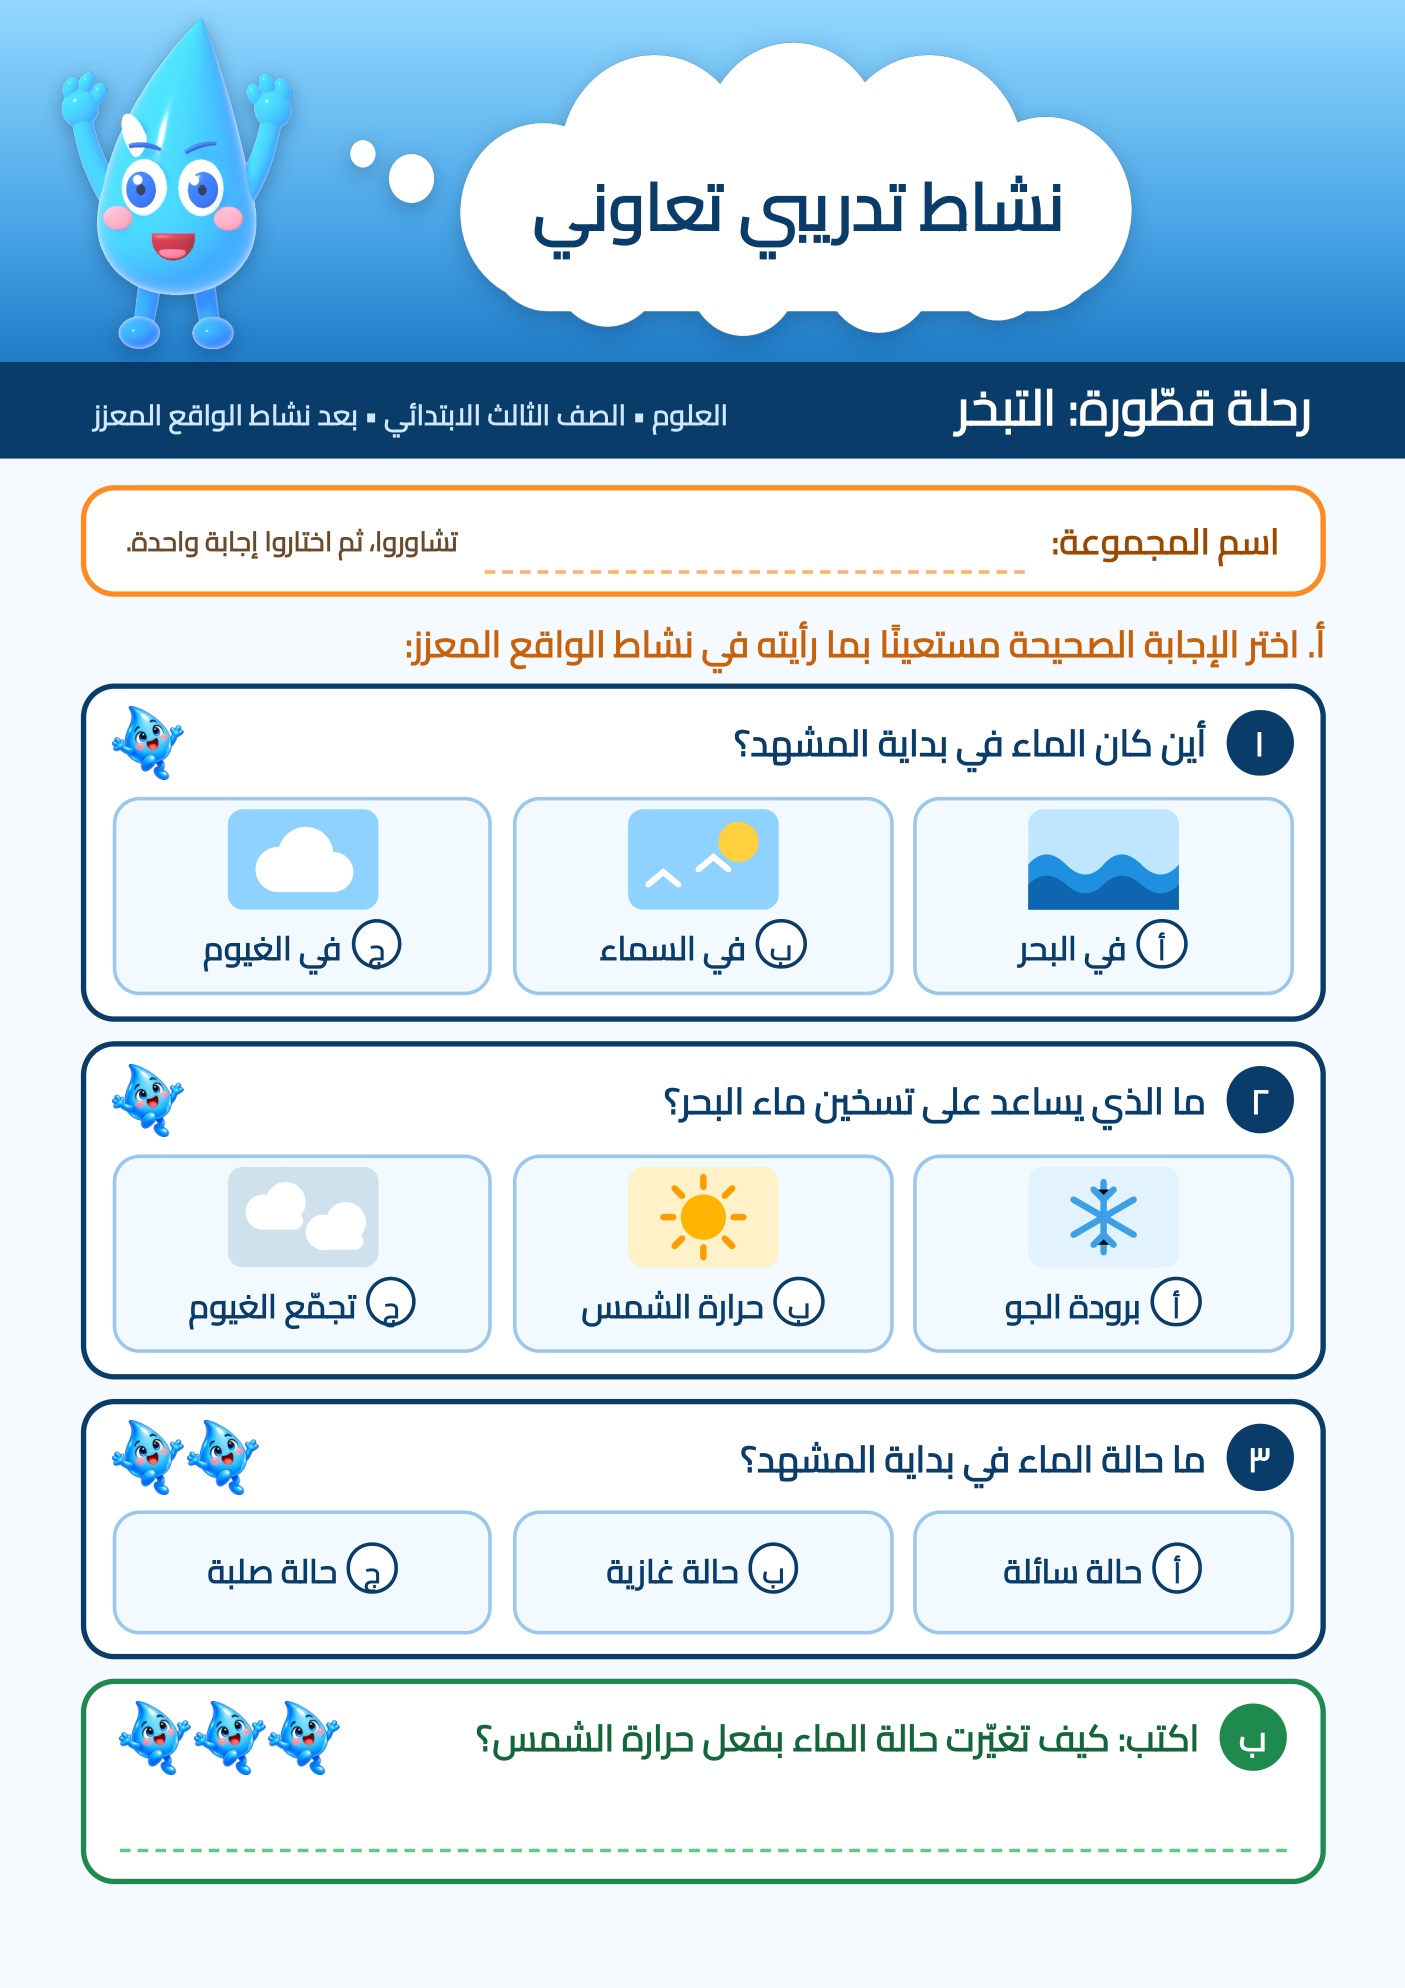
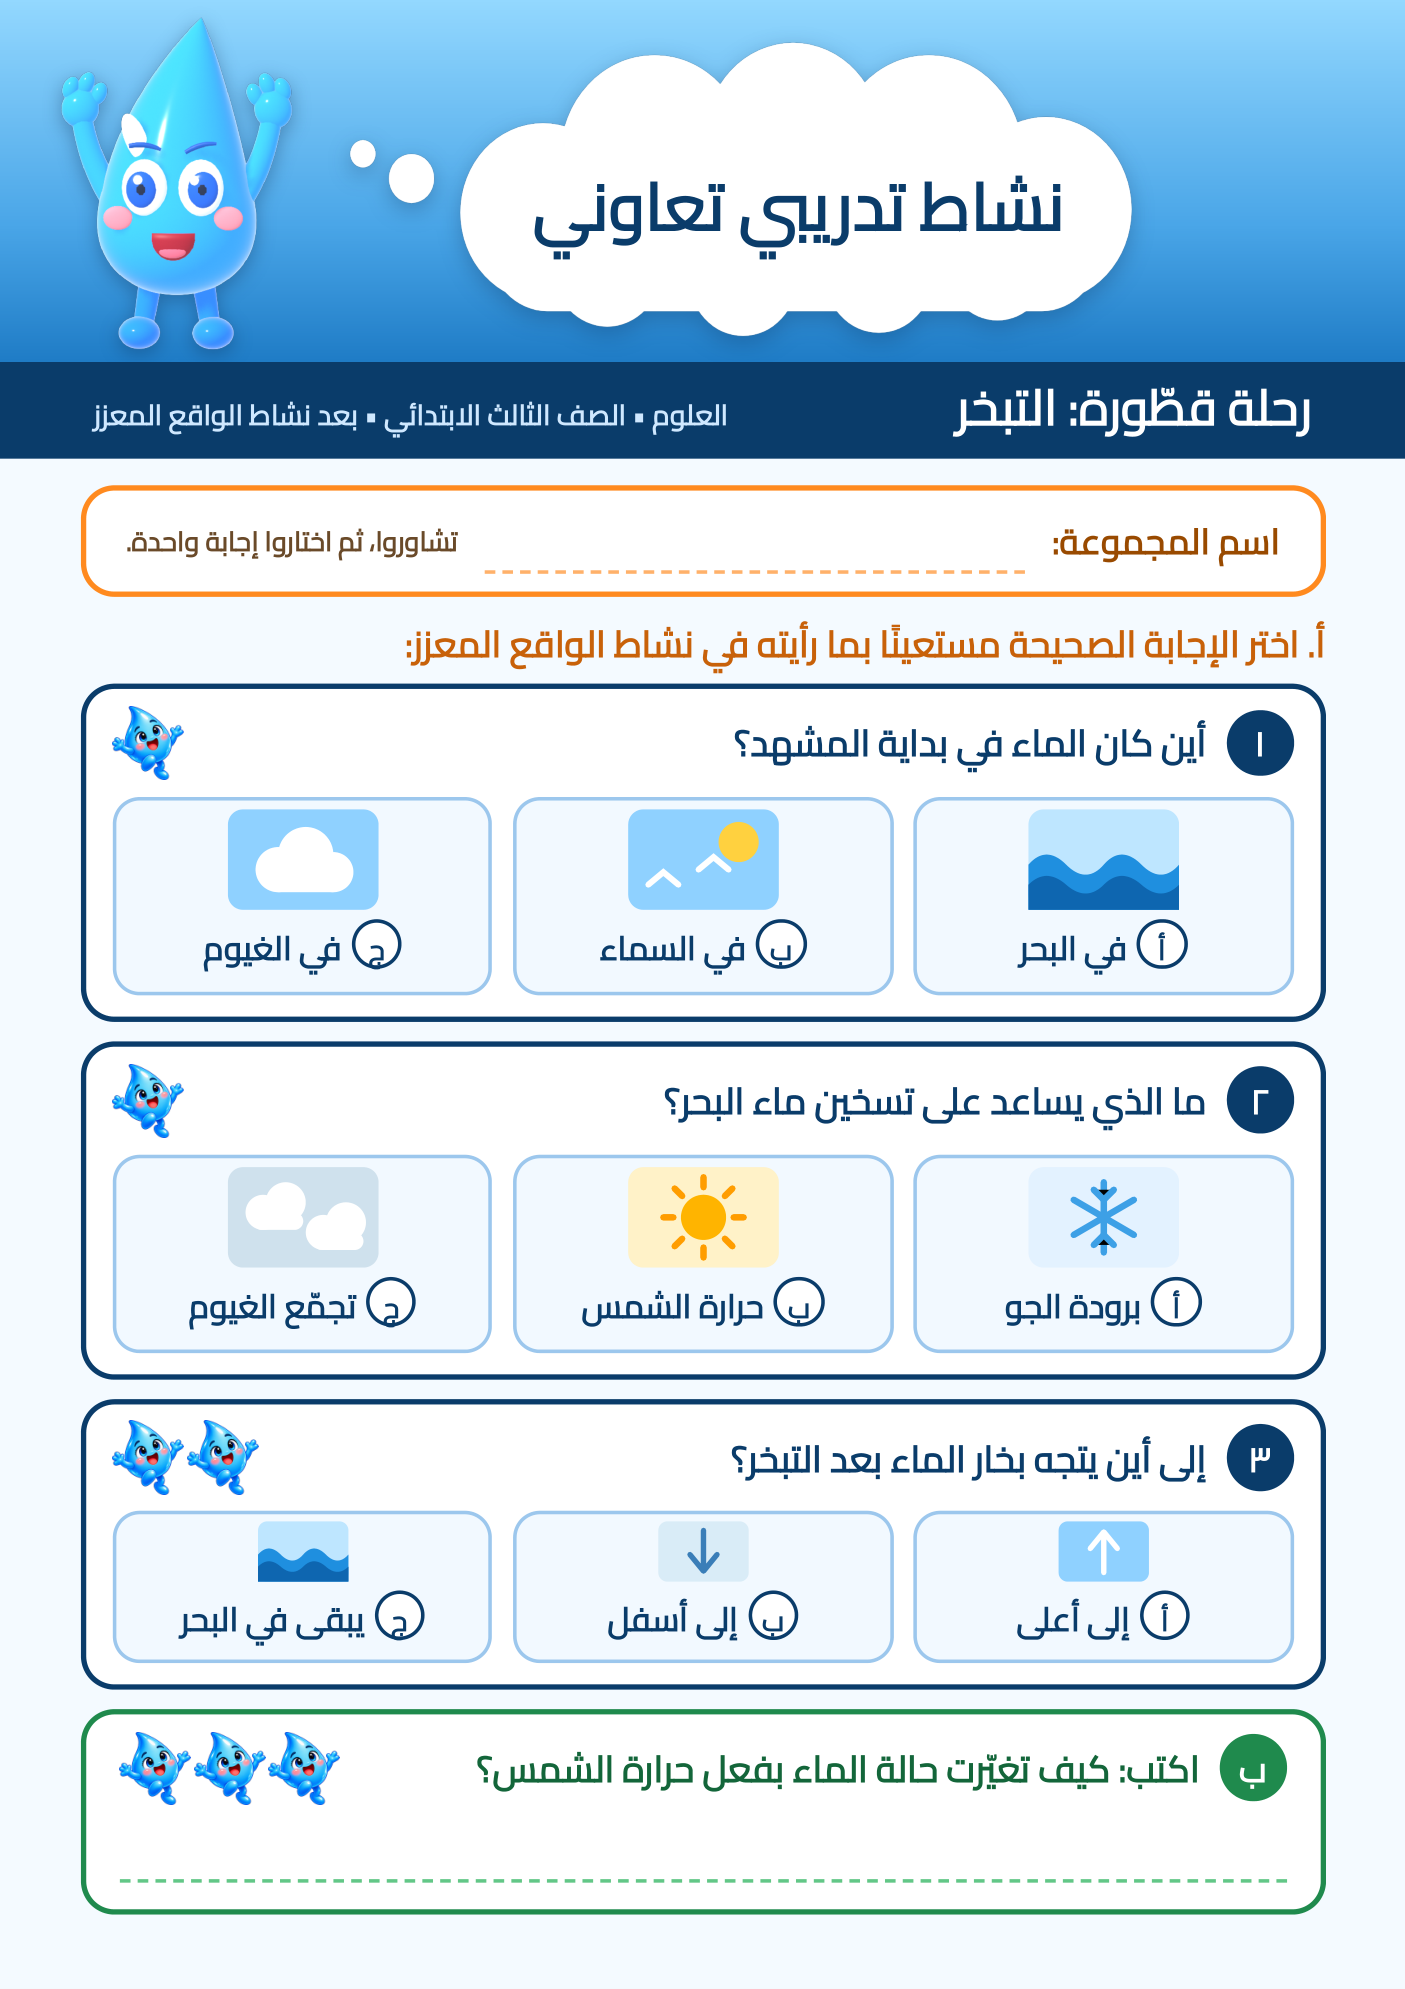
Ask about the direction of water vapour in practice sheet 1 and add its answer page
The lesson objective now compares evaporation and condensation by place,
direction, cause and change of state, so question 3 asks where water vapour
goes after evaporation instead of the starting state of the water.

diff --git a/practice-answers/index.html b/practice-answers/index.html
@@ -1,0 +1,15 @@
+<!DOCTYPE html>
+<html lang="ar" dir="rtl">
+<head>
+<meta charset="utf-8">
+<meta name="viewport" content="width=device-width, initial-scale=1">
+<title>نموذج إجابة النشاط التدريبي التعاوني: رحلة قطّورة (التبخر)</title>
+<style>
+  body { margin: 0; background: #0b3d6b; display: flex; justify-content: center; }
+  img { display: block; width: 100%; max-width: 900px; height: auto; }
+</style>
+</head>
+<body>
+  <img src="practice1-answers.png?v=2" alt="نموذج إجابة النشاط التدريبي التعاوني: رحلة قطّورة، التبخر">
+</body>
+</html>

diff --git a/practice/index.html b/practice/index.html
@@ -10,6 +10,6 @@
 </style>
 </head>
 <body>
-  <img src="practice1.png" alt="ورقة النشاط التدريبي التعاوني: رحلة قطّورة، التبخر">
+  <img src="practice1.png?v=2" alt="ورقة النشاط التدريبي التعاوني: رحلة قطّورة، التبخر">
 </body>
 </html>
